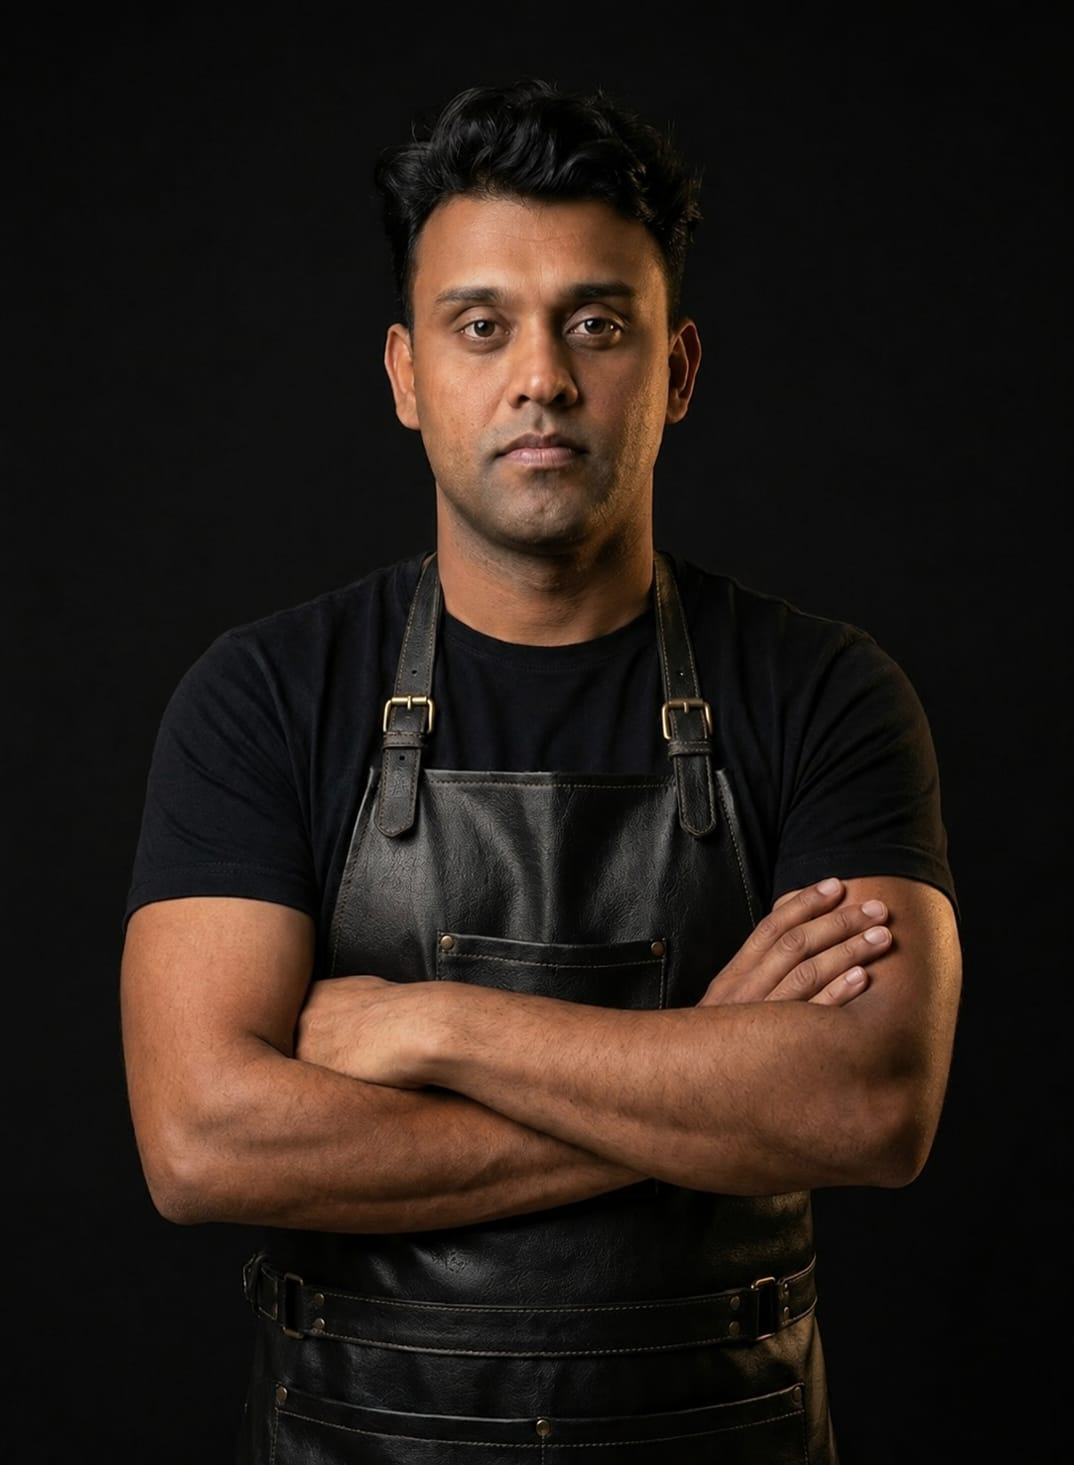
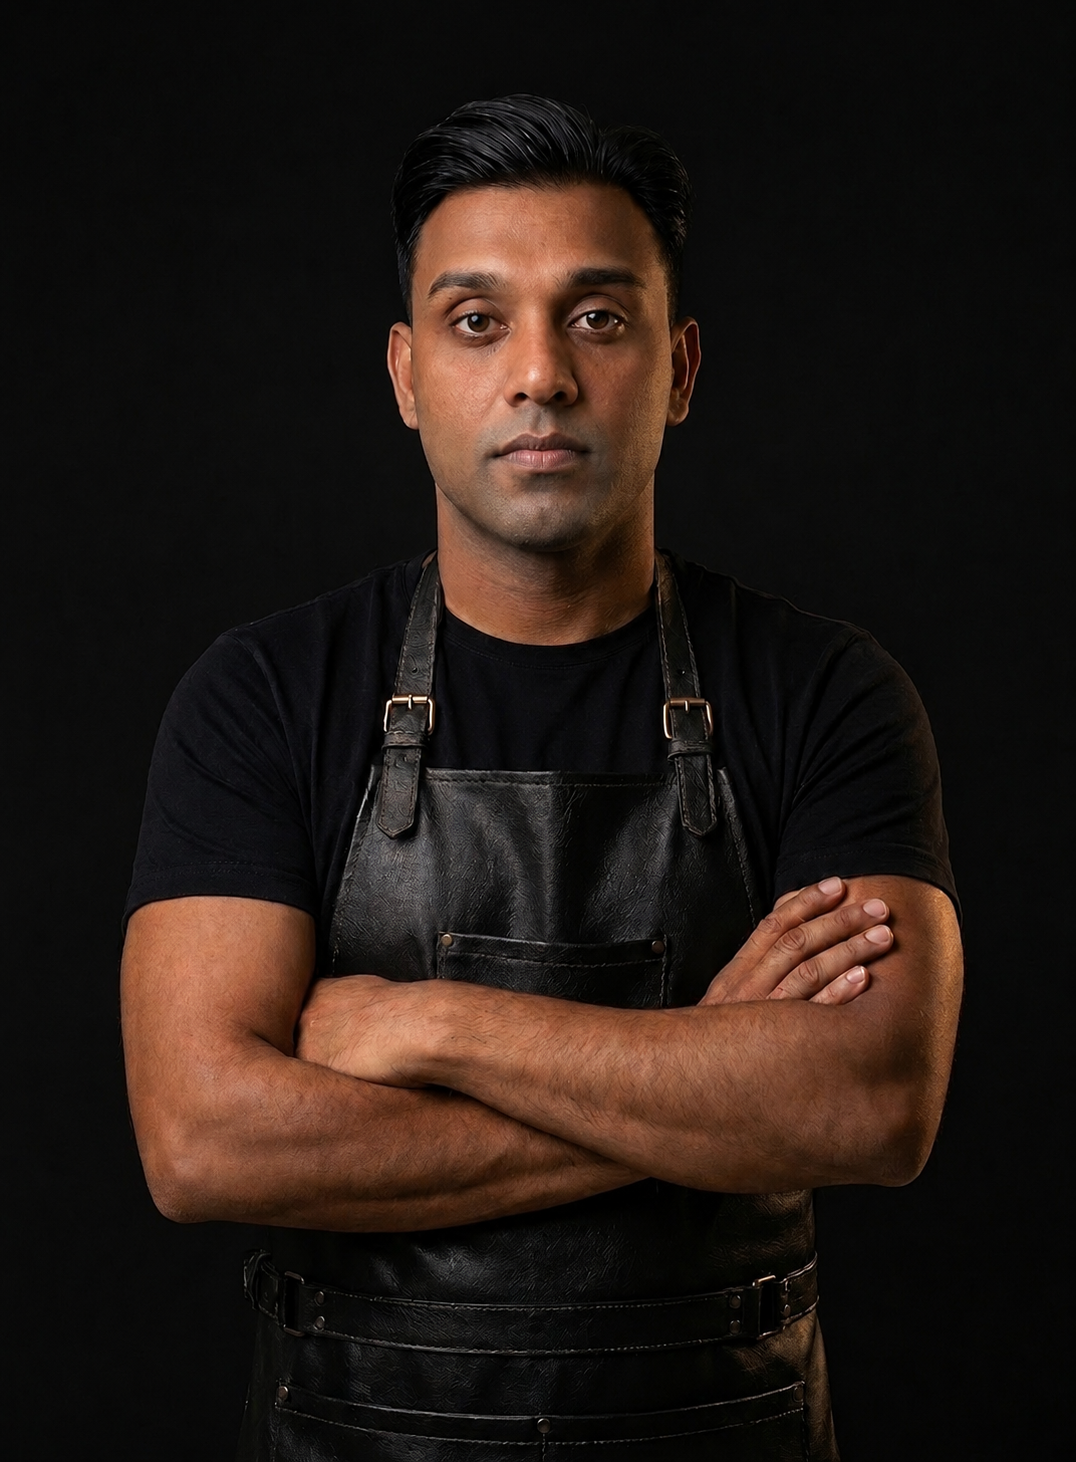
arrumando imagem

diff --git a/barbearia-3irmaos/src/Barbearia.jsx b/barbearia-3irmaos/src/Barbearia.jsx
@@ -48,7 +48,7 @@ const SERVICES = [
   { icon: '✂', name: 'Corte + Pigmentação',    price: 'R$ 40,00' },
   { icon: '✂', name: 'Corte + Luzes',    price: 'R$ 70,00' },
   { icon: '✂', name: 'Corte + Platinado',    price: 'R$ 120,00' },
-  { icon: '✂', name: 'Corte + Alisante',    price: 'R$ 120,00' },
+  { icon: '✂', name: 'Corte + Alisante',    price: 'R$ 60,00' },
 ];
 
 const GALLERY = [